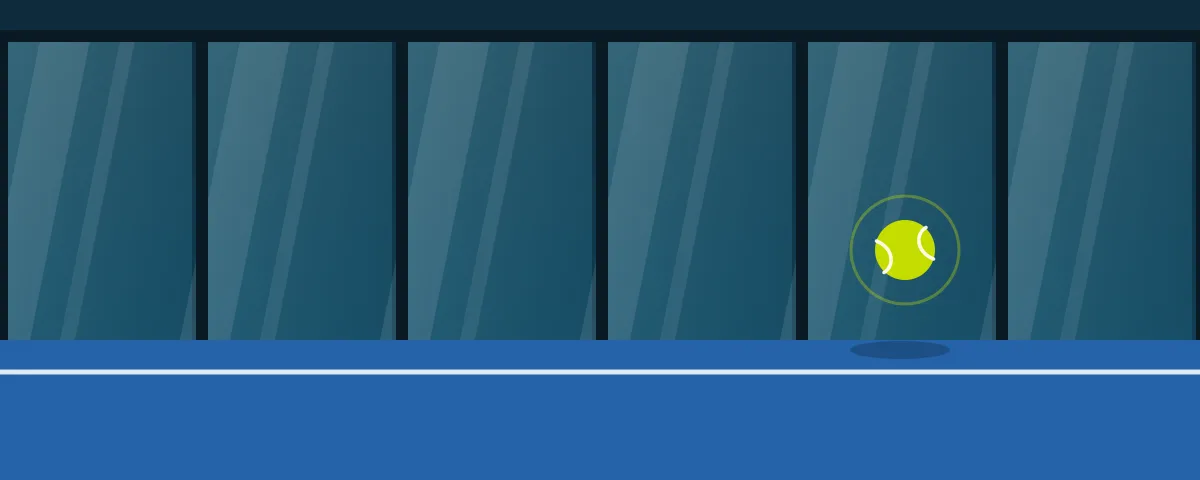
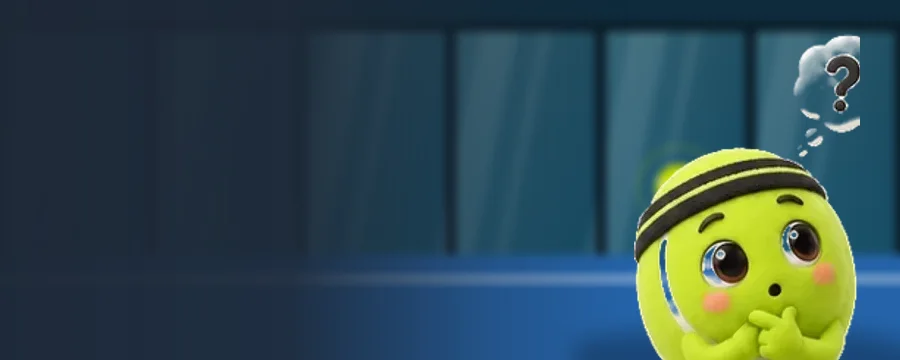
Capas: com o Alino 3D, como o topo do clube; pré-visualizações da folha corrigidas
- As seis capas passam a ser compostas com os bonecos do Alino (public/alino, fundo transparente): o Alino grande à direita, cortado pelo peito, sobre o cenário desfocado, e a fusão para azul-noite à esquerda onde entra o logótipo. 900×360, como os outros topos. «Bola» com fundo escuro (o Alino lima perdia-se no lima)
- CoverSheet: o KindHero recebia «absolute inset-0» por cima do seu «relative» e ficava com altura zero — a capa grande e os seis quadrados apareciam vazios

diff --git a/src/components/club/CoverSheet.jsx b/src/components/club/CoverSheet.jsx
@@ -10,7 +10,10 @@ import { COVER_PRESETS, coverOf } from '../../lib/orgCover'
    Em cima, a capa como vai ficar, com o logótipo por cima; por baixo, as
    capas do alinho e «Carregar». Uma foto carregada ajusta-se na vertical
    (o recorte é panorâmico, 3:1) antes de gravar — nunca fica cortada no
-   sítio errado. Nada grava até «Usar esta capa». */
+   sítio errado. Nada grava até «Usar esta capa».
+   O KindHero já é `relative`: para o pôr a toda a área, vai dentro de uma
+   caixa `absolute` (com as duas classes juntas ganhava o relative e a capa
+   ficava com altura zero — as pré-visualizações apareciam vazias). */
 
 export default function CoverSheet({ org, onSave, onRemove, onClose }) {
   const { t } = useTranslation()
@@ -76,7 +79,7 @@ export default function CoverSheet({ org, onSave, onRemove, onClose }) {
           <div className="relative aspect-[3/1]">
             {fileUrl
               ? <img src={fileUrl} alt="" className="absolute inset-0 h-full w-full object-cover" style={{ objectPosition: `50% ${y}%` }} />
-              : <KindHero kind="club" src={shown} className="absolute inset-0" />}
+              : <div className="absolute inset-0"><KindHero kind="club" src={shown} className="h-full w-full" /></div>}
             {fileUrl && <span className="pointer-events-none absolute inset-2 rounded-ctrl border-2 border-dashed border-white/85" aria-hidden="true" />}
           </div>
           <div className="relative h-8 bg-white">
@@ -102,7 +105,7 @@ export default function CoverSheet({ org, onSave, onRemove, onClose }) {
             return (
               <button key={p.key} type="button" onClick={() => pickPreset(p.url)} aria-pressed={on}
                 className={`relative h-16 overflow-hidden rounded-ctrl ring-offset-2 ${on ? 'ring-2 ring-ink-900' : ''}`}>
-                <KindHero kind="club" src={p.url} className="absolute inset-0" />
+                <div className="absolute inset-0"><KindHero kind="club" src={p.url} className="h-full w-full" /></div>
                 <span className="absolute inset-x-0 bottom-0 bg-gradient-to-t from-black/60 to-transparent px-1.5 pb-1 pt-3 text-left text-[11px] font-extrabold text-white">{t(p.labelKey)}</span>
                 {on && <Check size={14} className="absolute right-1.5 top-1.5 rounded-full bg-white p-0.5 text-ink-900" />}
               </button>
